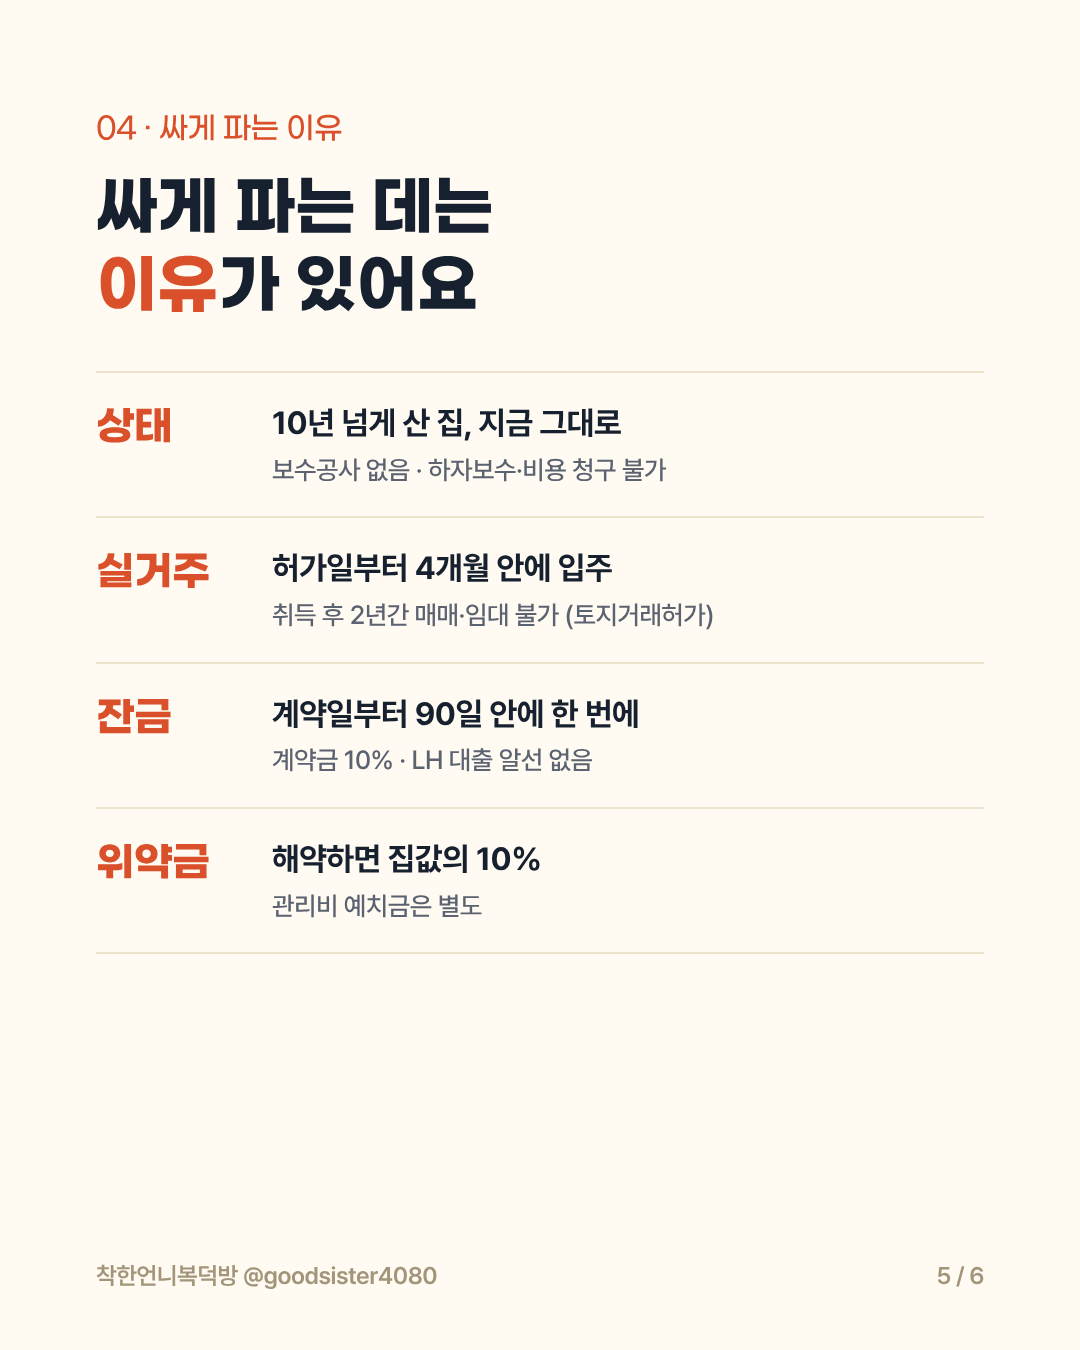
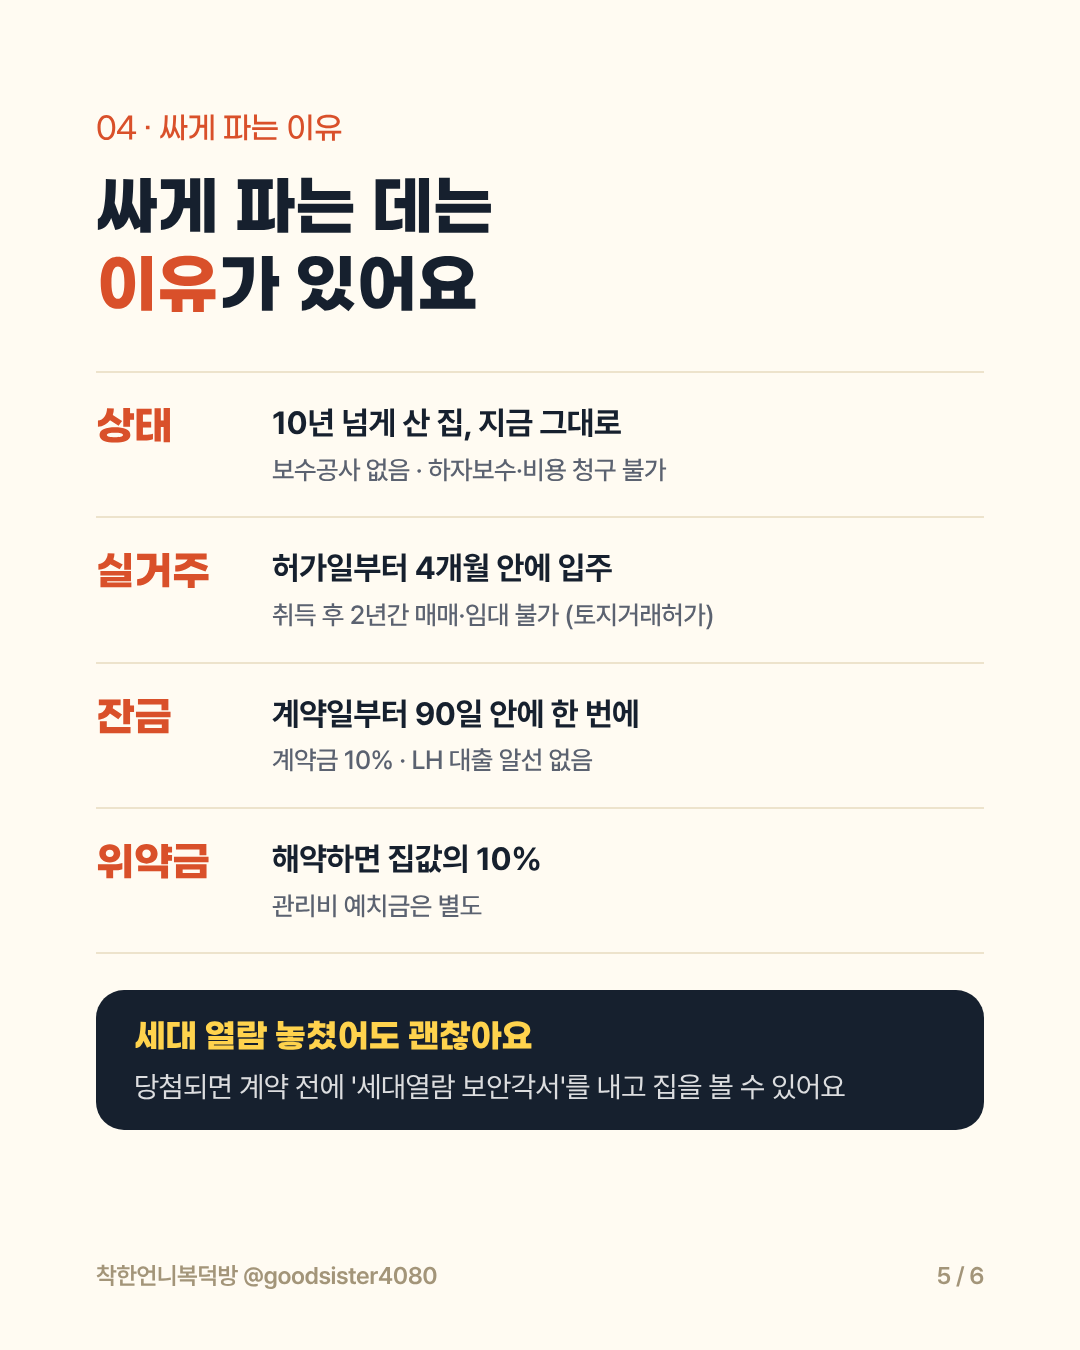
Gwanggyo card: note that winners can view the unit before contract
Claude-Session: https://claude.ai/code/session_01TVq9M4GpnT2XRseWGn9WC1

Changed region(s): [[0.0917, 0.7156, 0.9167, 0.84]]

diff --git a/instagram/cards/kit.html b/instagram/cards/kit.html
@@ -29,6 +29,7 @@ LH 공가세대 일반매각 (무순위 추첨)
 더포레스트 9.16억 · 9.39억
 
 ✔ 10년 넘게 산 집, 보수 없이 그대로
+   (열람 놓쳤어도 당첨 후 계약 전 열람 가능)
 ✔ 토지거래허가 · 2년 실거주
 ✔ 잔금 90일 안에 한 번에
 ✔ 두 공고 합쳐 1인 1건만

diff --git a/instagram/cards/2026-11-13-gwanggyo/README.md b/instagram/cards/2026-11-13-gwanggyo/README.md
@@ -24,6 +24,7 @@ LH 공가세대 일반매각 (무순위 추첨)
 더포레스트 9.16억 · 9.39억
 
 ✔ 10년 넘게 산 집, 보수 없이 그대로
+   (열람 놓쳤어도 당첨 후 계약 전 열람 가능)
 ✔ 토지거래허가 · 2년 실거주
 ✔ 잔금 90일 안에 한 번에
 ✔ 두 공고 합쳐 1인 1건만
